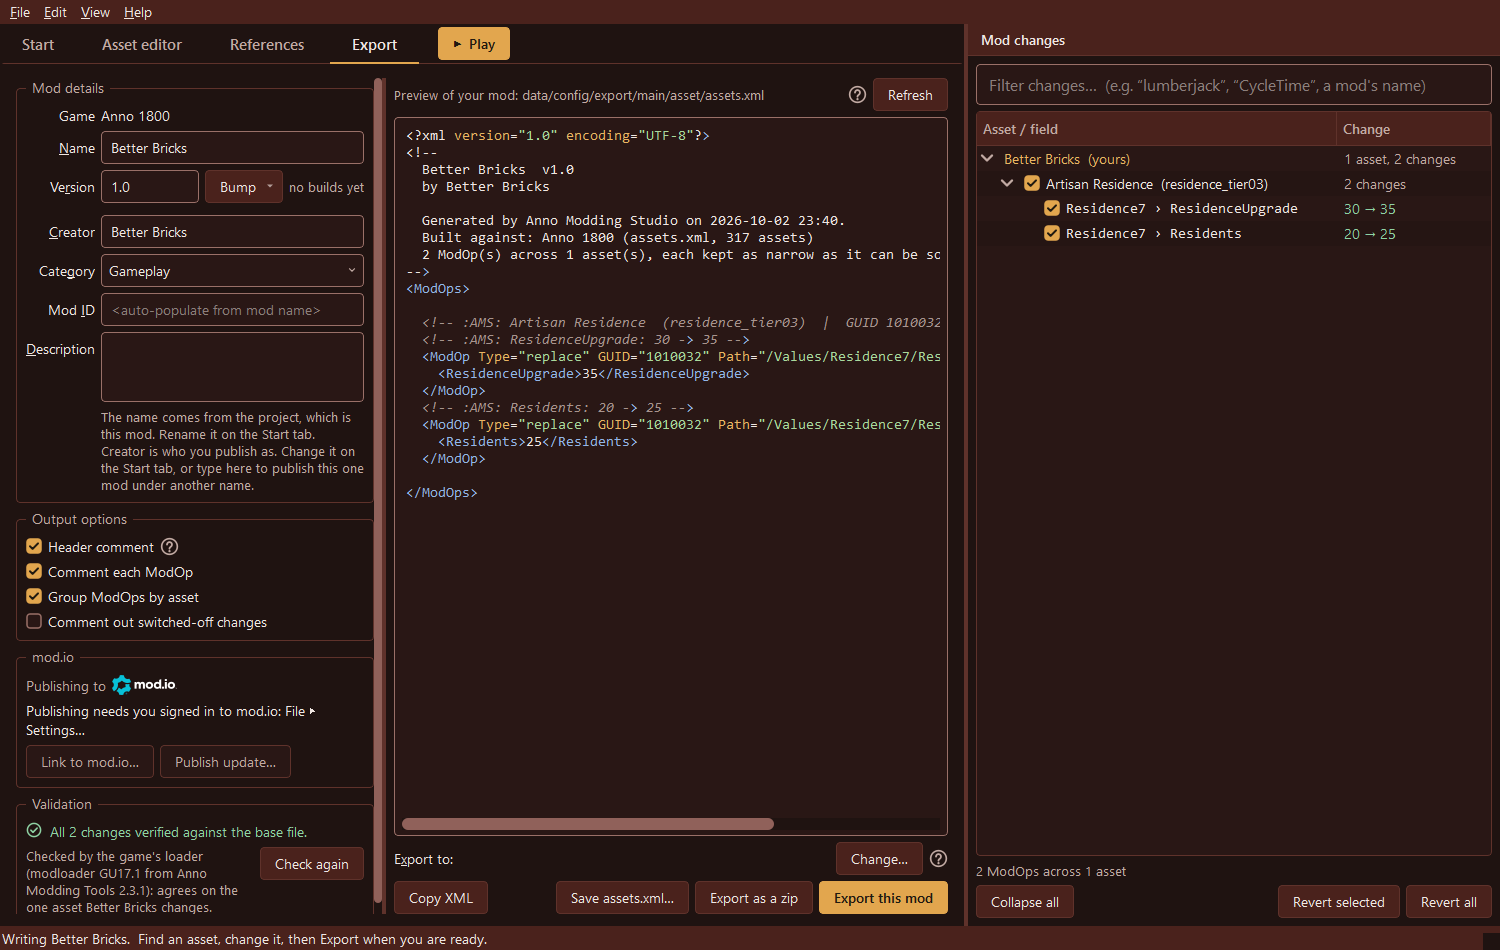
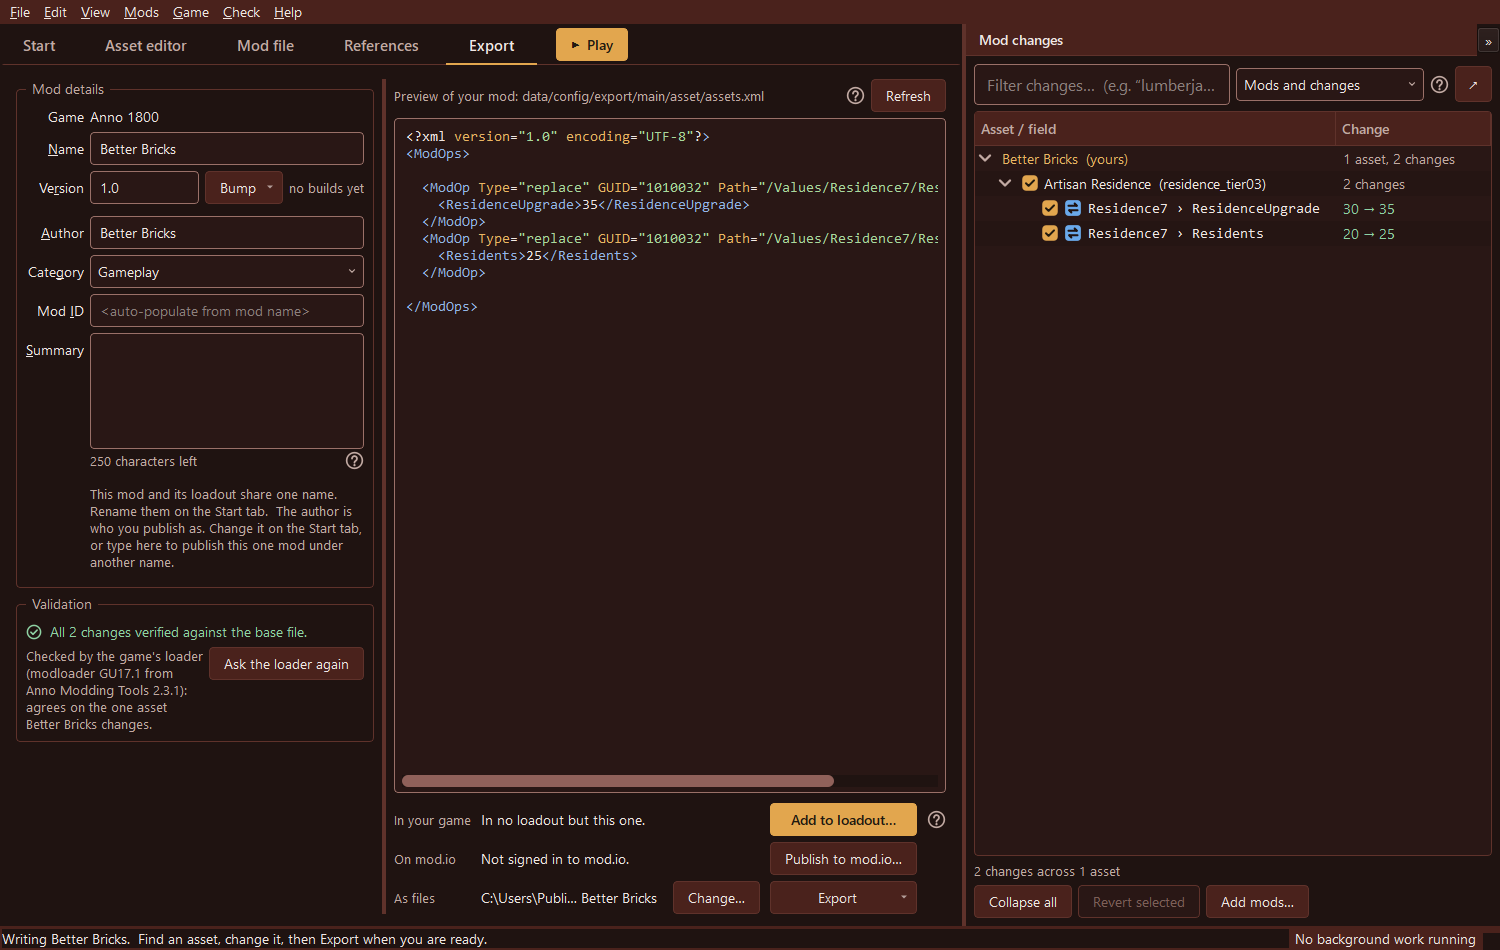
The reference renders are 0.1.0's
The 24 references had stood since 4 Oct. Approved on the release branch and
replaced with this release's, so the next release's --compare shows what
changed since this one.

Changed region(s): [[0.0, 0.0, 1.0, 1.0], [0.0307, 0.3663, 0.0613, 0.3968], [0.0, 0.0305, 0.0307, 0.0611]]

diff --git a/docs/design-review/README.md b/docs/design-review/README.md
@@ -108,3 +108,12 @@ every later stage.
   value was 2.83:1 against Brick's raised surface, below the 3:1 floor. The
   render on the comparison sheet didn't check that pair, and `contrast.py`
   does.
+- **0.1.0's look** replaced all 24 references on 28 Oct, approved on the
+  release branch (`docs/standards/release-checklist.md`). They had stood
+  since 4 Oct, and three weeks of work had changed every tab: the Mods,
+  Game and Check menus and the Mod file tab, the Start tab's *Your loadout*
+  and Studio folders rows, the Export tab's three rows for where a mod goes,
+  and the Mod changes panel's buttons and row badges. From here on each
+  release replaces them, so `--compare` shows what changed since the last
+  one. `scale-150/` is from before these changes and `--compare` does not
+  render it.
